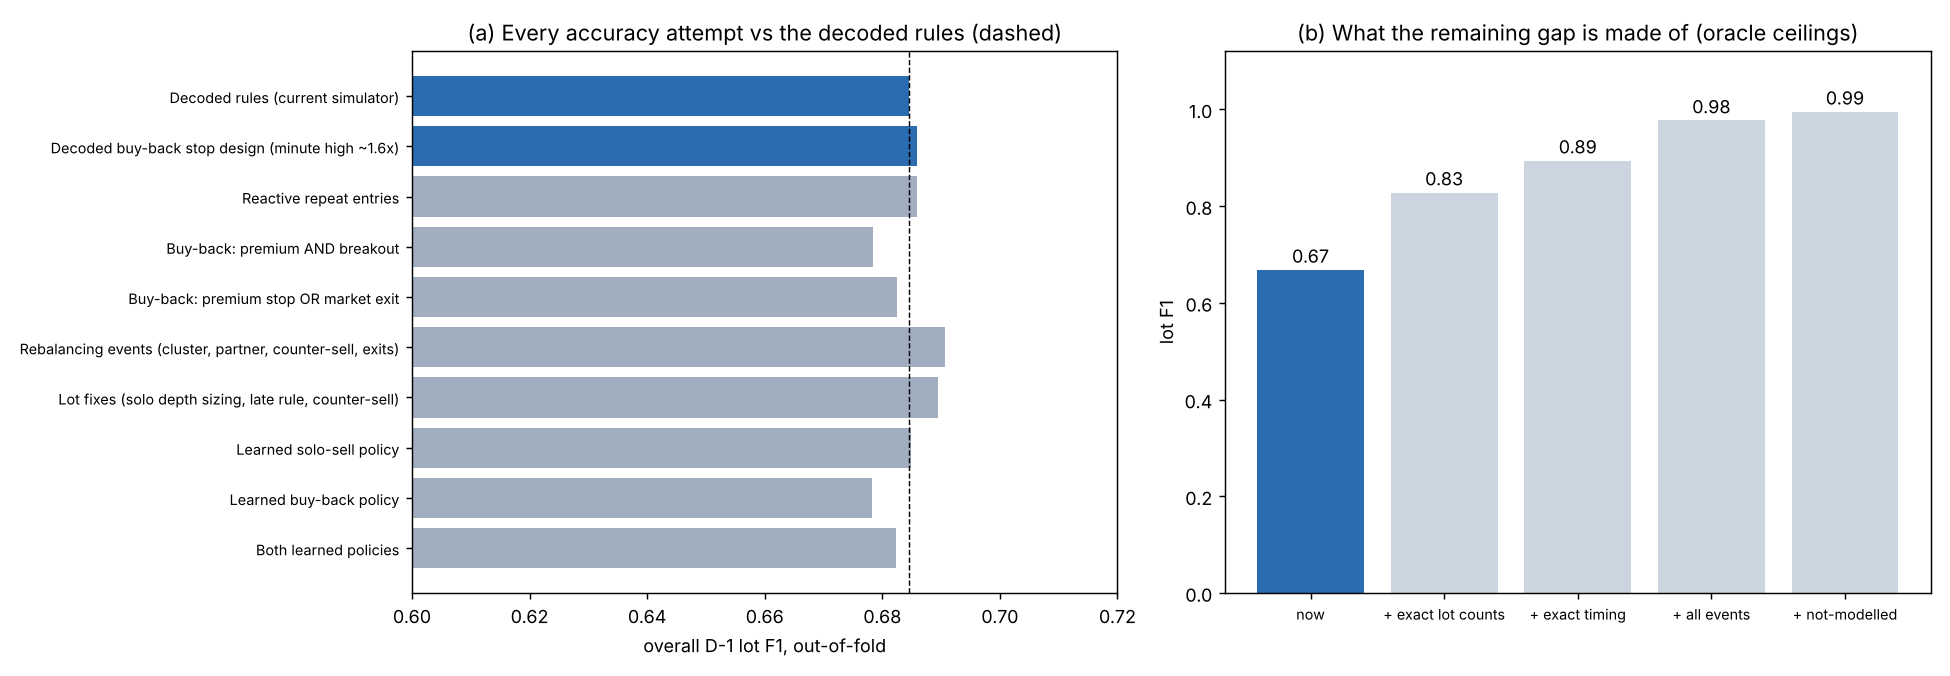
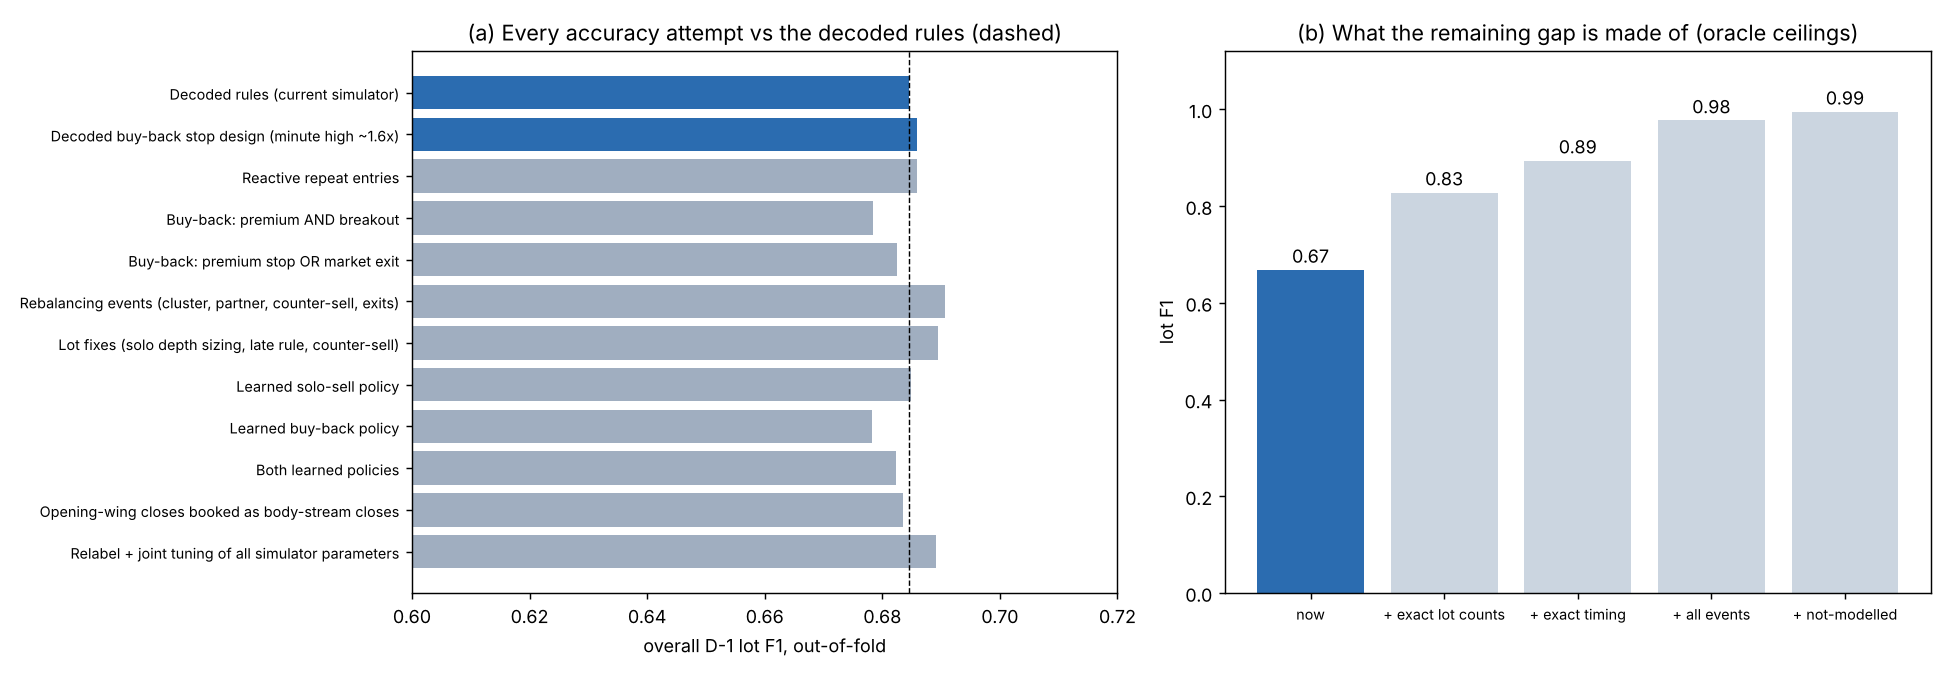
Accuracy push round 2: opening-wing close relabel neutral, joint tuning overfits; D-1 stays at decoded rules
Out-of-fold / unseen same version / unseen version change:
baseline 0.685 / 0.634 / 0.624; relabel 0.684 / 0.635 / 0.623;
relabel + joint tuning 0.689 / 0.635 / 0.613 (training F1 +0.005..0.018).
Scoreboard now lists 11 attempts.

Claude-Session: https://claude.ai/code/session_01Pypx214UcGEEhHa56M3kcJ

diff --git a/backtest/replication/deep_dive/src/make_ml_report.py b/backtest/replication/deep_dive/src/make_ml_report.py
@@ -7,7 +7,7 @@ def table(df):
     c = list(df.columns); s = '| ' + ' | '.join(map(str, c)) + ' |\n|' + '|'.join('---' for _ in c) + '|\n'
     for r in df.itertuples(index=False): s += '| ' + ' | '.join(str(x) for x in r) + ' |\n'
     return s
-ML = pd.read_csv(f'{OUT}/bl_ml_fit.csv'); LF = pd.read_csv(f'{OUT}/bl_lots_fit.csv'); FW = pd.read_csv(f'{OUT}/bl_fwd.csv'); EV = pd.read_csv(f'{OUT}/bl_ev_overall.csv'); O1 = pd.read_csv(f'{OUT}/bl_fr_overall.csv'); O2 = pd.read_csv(f'{OUT}/bl_fr2_overall.csv').iloc[0]; RP1 = J('rep1'); BS5 = J('bs5'); M2 = J('ml2'); CE = pd.read_csv(f'{OUT}/bl_lots_ceiling.csv')
+ML = pd.read_csv(f'{OUT}/bl_ml_fit.csv'); P2 = pd.read_csv(f'{OUT}/bl_push2.csv'); LF = pd.read_csv(f'{OUT}/bl_lots_fit.csv'); FW = pd.read_csv(f'{OUT}/bl_fwd.csv'); EV = pd.read_csv(f'{OUT}/bl_ev_overall.csv'); O1 = pd.read_csv(f'{OUT}/bl_fr_overall.csv'); O2 = pd.read_csv(f'{OUT}/bl_fr2_overall.csv').iloc[0]; RP1 = J('rep1'); BS5 = J('bs5'); M2 = J('ml2'); CE = pd.read_csv(f'{OUT}/bl_lots_ceiling.csv')
 g = lambda df, s_, m: float(df[(df.setup == s_) & (df.model == m)].F1.iloc[0])
 OOF, A, B = 'out-of-fold halves', 'A same version (V1 14->7, V2 7->4)', 'B version change (train V1, test V2)'
 base = (float(O1.F1.iloc[0]), g(ML, A, 'baseline'), g(ML, B, 'baseline'))
@@ -20,7 +20,9 @@ sc = [('Decoded rules (current simulator)', *base, 'kept'),
       ('Lot fixes (solo depth sizing, late rule, counter-sell)', g(LF, OOF, 'fixed'), g(LF, A, 'fixed'), g(LF, B, 'fixed'), 'rejected'),
       ('Learned solo-sell policy', g(ML, OOF, '+ sell policy'), g(ML, A, '+ sell policy'), g(ML, B, '+ sell policy'), 'rejected'),
       ('Learned buy-back policy', g(ML, OOF, '+ buy-back policy'), g(ML, A, '+ buy-back policy'), g(ML, B, '+ buy-back policy'), 'rejected'),
-      ('Both learned policies', g(ML, OOF, '+ both policies'), g(ML, A, '+ both policies'), g(ML, B, '+ both policies'), 'rejected')]
+      ('Both learned policies', g(ML, OOF, '+ both policies'), g(ML, A, '+ both policies'), g(ML, B, '+ both policies'), 'rejected'),
+      ('Opening-wing closes booked as body-stream closes', g(P2, OOF, '+ opening-wing close relabel'), g(P2, A, '+ opening-wing close relabel'), g(P2, B, '+ opening-wing close relabel'), 'rejected (neutral)'),
+      ('Relabel + joint tuning of all simulator parameters', g(P2, OOF, '+ relabel + joint tuning'), g(P2, A, '+ relabel + joint tuning'), g(P2, B, '+ relabel + joint tuning'), 'rejected (overfits)')]
 T = pd.DataFrame(sc, columns=['attempt', 'out-of-fold F1', 'unseen F1 (same version)', 'unseen F1 (version change)', 'decision'])
 Tf = T.copy()
 for c in T.columns[1:4]: Tf[c] = T[c].map(lambda v: '–' if v != v else f'{v:.3f}')
@@ -40,7 +42,7 @@ txt = f"""# Algo 8 — pushing the D-1 reconstruction accuracy: everything tried
   * **{base[1]:.3f}** on unseen cycles of the same version, **{base[2]:.3f}** after a version change.
   * AUC on unseen cycles {FW.AUC_any_forward.iloc[0]:.2f} / {FW.AUC_any_forward.iloc[1]:.2f}.
   * Minute-cell activity F1 0.89 at ±1 minute.
-* **Nothing tried beats it on unseen cycles.** This covers 9 attempts: stop-design variants, rebalancing events, quantity fixes and learned (gradient-boosting) policies for solo sells and buy-backs. Each was chosen on training cycles and validated out-of-fold and on unseen cycles. The best gain on any test is under +0.01, inside the noise, and none improves both out-of-fold and unseen.
+* **Nothing tried beats it on unseen cycles.** This covers 11 attempts: stop-design variants, rebalancing events, quantity fixes, learned (gradient-boosting) policies for solo sells and buy-backs, booking the opening-wing closes as body-stream closes, and joint tuning of every simulator parameter against overall accuracy. Each was chosen on training cycles and validated out-of-fold and on unseen cycles. The best gain on any test is under +0.01, inside the noise, and none improves both out-of-fold and unseen.
 * **The learned policies are informative but do not help the whole system.**
   * The solo-sell model ranks sell cells better than the decoded ladder: exact-minute cell F1 {M2['0.1']:.2f} vs {M2['ladder_rule']:.2f} on training cells.
   * In the full free-running simulation it places more lots, the hedge mirrors every extra sell, and overall precision falls as much as recall rises.
@@ -57,7 +59,11 @@ txt = f"""# Algo 8 — pushing the D-1 reconstruction accuracy: everything tried
 ## 2. Learned policies (detail)
 {table(mlt)}
 
-## 3. Reading for the PM
+## 3. Round 2 (after "try again as hard as possible")
+* **Opening-wing closes.** 93% of the real body-stream long closes are on the opening-wing contracts, and 81% come within 10 s of a buy-back. The simulator's outermost-first release does close those contracts, but at different moments: only about 24% match in time. Overall effect: neutral.
+* **Joint coordinate-descent tuning** of all parameters against overall lot F1, two passes on the training cycles. It raises the training F1 by 0.005–0.018, but on unseen cycles it gains +0.001 (same version) and loses −0.010 (version change). That is overfitting to the training cycles. Rejected.
+
+## 4. Reading for the PM
 * **Decisions:** what the system does, when, and on which side is reproduced well. AUC is about 0.92 on unseen days, minute cells 0.89.
 * **Execution detail:** how many lots and the exact minute is about 0.63 on unseen days.
 * **With this data,** further modelling on the same 32 cycles mainly fits noise. Every extra layer tried in this pass lost out-of-sample.

diff --git a/backtest/replication/deep_dive/tests/test_bl.py b/backtest/replication/deep_dive/tests/test_bl.py
@@ -627,3 +627,8 @@ def test_ml_policies_and_scoreboard():
     for v in ('+ sell policy', '+ buy-back policy', '+ both policies'):
         x = M[M.model == v].set_index('setup').F1; assert not ((x > b + 0.005).all())          # no learned policy improves every setup
     R = json.load(open(f'{OUT}/bl_summary_ml2.json')); assert R['0.1'] > R['ladder_rule']
+
+
+def test_push2_round_two():
+    P = pd.read_csv(f'{OUT}/bl_push2.csv').pivot(index='model', columns='setup', values='F1'); b = P.loc['baseline']
+    assert not (P.loc['+ relabel + joint tuning'] > b + 0.005).all() and abs(P.loc['+ opening-wing close relabel'] - b).max() < 0.01

diff --git a/backtest/replication/deep_dive/reports/D1_ACCURACY_PUSH.md b/backtest/replication/deep_dive/reports/D1_ACCURACY_PUSH.md
@@ -8,7 +8,7 @@
   * **0.633** on unseen cycles of the same version, **0.624** after a version change.
   * AUC on unseen cycles 0.92 / 0.91.
   * Minute-cell activity F1 0.89 at ±1 minute.
-* **Nothing tried beats it on unseen cycles.** This covers 9 attempts: stop-design variants, rebalancing events, quantity fixes and learned (gradient-boosting) policies for solo sells and buy-backs. Each was chosen on training cycles and validated out-of-fold and on unseen cycles. The best gain on any test is under +0.01, inside the noise, and none improves both out-of-fold and unseen.
+* **Nothing tried beats it on unseen cycles.** This covers 11 attempts: stop-design variants, rebalancing events, quantity fixes, learned (gradient-boosting) policies for solo sells and buy-backs, booking the opening-wing closes as body-stream closes, and joint tuning of every simulator parameter against overall accuracy. Each was chosen on training cycles and validated out-of-fold and on unseen cycles. The best gain on any test is under +0.01, inside the noise, and none improves both out-of-fold and unseen.
 * **The learned policies are informative but do not help the whole system.**
   * The solo-sell model ranks sell cells better than the decoded ladder: exact-minute cell F1 0.41 vs 0.33 on training cells.
   * In the full free-running simulation it places more lots, the hedge mirrors every extra sell, and overall precision falls as much as recall rises.
@@ -32,6 +32,8 @@
 | Learned solo-sell policy | 0.685 | 0.635 | 0.607 | rejected |
 | Learned buy-back policy | 0.678 | 0.625 | 0.627 | rejected |
 | Both learned policies | 0.682 | 0.622 | 0.615 | rejected |
+| Opening-wing closes booked as body-stream closes | 0.683 | 0.635 | 0.623 | rejected (neutral) |
+| Relabel + joint tuning of all simulator parameters | 0.689 | 0.635 | 0.613 | rejected (overfits) |
 
 
 ## 2. Learned policies (detail)
@@ -51,7 +53,11 @@
 | B version change (train V1, test V2) | + both policies | 11 | 0.615 | 0.577 | 0.659 | 0.546 | 0.4 |
 
 
-## 3. Reading for the PM
+## 3. Round 2 (after "try again as hard as possible")
+* **Opening-wing closes.** 93% of the real body-stream long closes are on the opening-wing contracts, and 81% come within 10 s of a buy-back. The simulator's outermost-first release does close those contracts, but at different moments: only about 24% match in time. Overall effect: neutral.
+* **Joint coordinate-descent tuning** of all parameters against overall lot F1, two passes on the training cycles. It raises the training F1 by 0.005–0.018, but on unseen cycles it gains +0.001 (same version) and loses −0.010 (version change). That is overfitting to the training cycles. Rejected.
+
+## 4. Reading for the PM
 * **Decisions:** what the system does, when, and on which side is reproduced well. AUC is about 0.92 on unseen days, minute cells 0.89.
 * **Execution detail:** how many lots and the exact minute is about 0.63 on unseen days.
 * **With this data,** further modelling on the same 32 cycles mainly fits noise. Every extra layer tried in this pass lost out-of-sample.

diff --git a/backtest/replication/deep_dive/README.md b/backtest/replication/deep_dive/README.md
@@ -59,3 +59,4 @@ Buy-back rebalancing events in the simulator (plan `BUYBACK_EVENTS_PLAN.md`, rep
 Forward test on unseen cycles (report `D1_FORWARD.md`): `bl_fwd.py` → `make_fwd_report.py`.
 D-1 lot construction (plan `D1_LOTS_PLAN.md`, report `D1_LOTS.md`): `bl_err_budget.py` → `bl_qty_events.py` → `bl_solo_burst.py` → `bl_solo_minute.py` → `bl_lots_fit.py` → `bl_lots_ceiling.py` → `make_lots_report.py`.
 Learned policies and accuracy scoreboard (plan `D1_ML_PLAN.md`, report `D1_ACCURACY_PUSH.md`): `bl_ml_feat.py` → `bl_ml_fit.py` → `bl_ml_tcheck.py` → `make_ml_report.py`.
+Accuracy push round 2 (opening-wing close relabel, joint tuning): `bl_push2.py` → `make_ml_report.py`.
